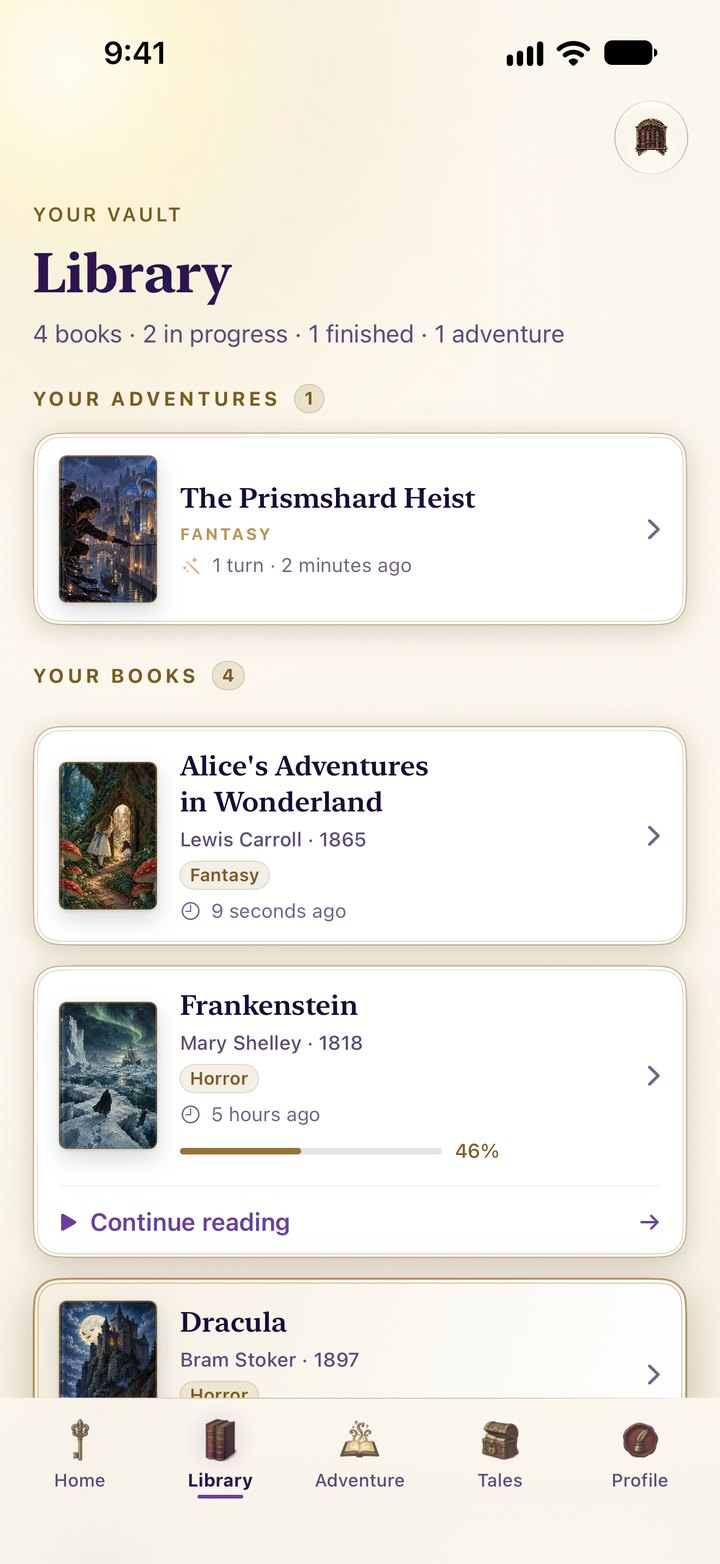
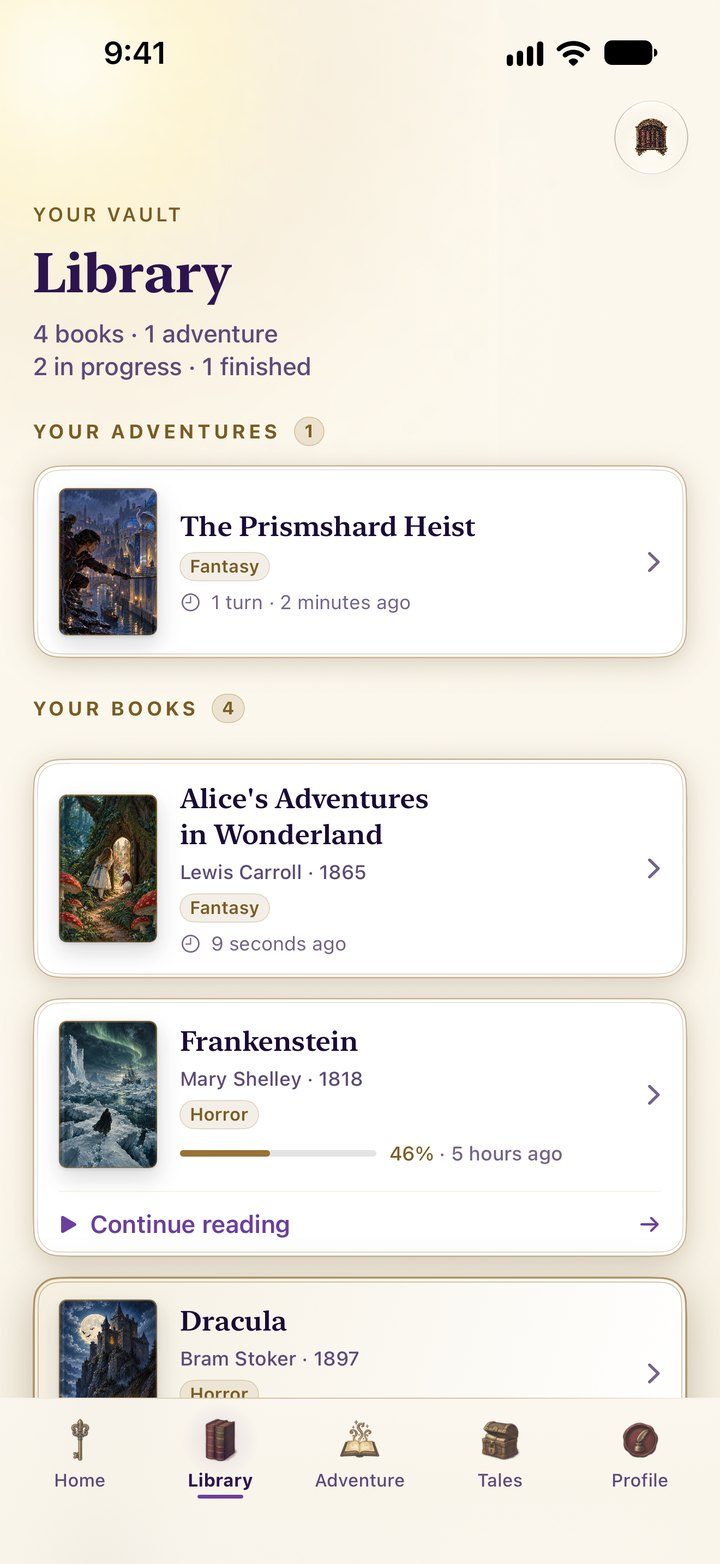
StoryVault: re-shoot the library frame from the 1.3.6 card fix
The frame showed the adventure row's genre as a bare FANTASY label next
to the book cards' Fantasy capsule, a gold wand beside "1 turn", and an
in-progress Frankenstein card a third taller than its neighbours. Vanus
flagged all three from this page. Re-shot with SiteScreenshotTests from
storyvault-ios claude/storyvault-136-library-cards-20261031 on an
iPhone 17 Pro Max / iOS 27.0 simulator; same 720x1564 q86 progressive
encode as the 2026-10-27 set, cache-buster bumped to 20261031a.

diff --git a/storyvault/index.html b/storyvault/index.html
@@ -1487,7 +1487,7 @@
               <div class="hero-carousel">
                 <img src="screenshots/home.jpg?v=20261027a" width="720" height="1564" fetchpriority="high" alt="StoryVault home in light mode — Continue Reading Alice's Adventures in Wonderland, Write a Story and AI Adventure buttons, and Most Popular classics">
                 <img data-allow-duplicate="true" src="screenshots/release135-adventure.webp" width="900" height="1955" alt="An illustrated Dracula adventure in StoryVault, with the castle scene, story passage, Listen control, three choices and a field for your own response." loading="lazy">
-                <img data-allow-duplicate="true" src="screenshots/library.jpg?v=20261027a" width="720" height="1564" alt="Your Vault library in light mode — the Prismshard Heist adventure beside Alice, Dracula, and Frankenstein" loading="lazy">
+                <img data-allow-duplicate="true" src="screenshots/library.jpg?v=20261031a" width="720" height="1564" alt="Your Vault library in light mode — the Prismshard Heist adventure beside Alice, Dracula, and Frankenstein" loading="lazy">
                 <img src="screenshots/reader-dark.jpg?v=20261027a" width="720" height="1564" alt="The reader in dark mode — Alice in Wonderland in a clean night-reading view" loading="lazy">
                 <img data-allow-duplicate="true" src="screenshots/write-story.jpg?v=20261027a" width="720" height="1564" alt="Write Your Own Story composer in light mode — quick-start flavors and Help build my brief" loading="lazy">
                 <img data-allow-duplicate="true" src="screenshots/home-dark.jpg?v=20261027a" width="720" height="1564" alt="StoryVault home in dark mode — the same literary home by night" loading="lazy">
@@ -1711,7 +1711,7 @@
         <div class="screen-card">
           <div class="device-stage">
             <div class="device">
-              <img data-allow-duplicate="true" src="screenshots/library.jpg?v=20261027a" width="720" height="1564" alt="Your Vault — the Prismshard Heist adventure beside Alice in Wonderland, Dracula, and Frankenstein, with genre pills and reading progress" loading="lazy">
+              <img data-allow-duplicate="true" src="screenshots/library.jpg?v=20261031a" width="720" height="1564" alt="Your Vault — the Prismshard Heist adventure beside Alice in Wonderland, Dracula, and Frankenstein, with genre pills and reading progress" loading="lazy">
             </div>
           </div>
           <div class="screen-label">
